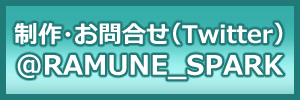
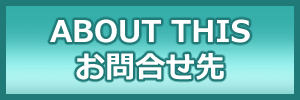
update

diff --git a/pcInformation/index.html b/pcInformation/index.html
@@ -2,7 +2,7 @@
 <html>
   <head>
       <meta charset = "UTF-8" name="viewport" content="user-scalable=no, width=device-width"/>
-        <link rel="shortcut icon" type = "image/vnd.microsoft.icon" href="../info/favicon.ico" />
+        <link rel="shortcut icon" type = "image/vnd.microsoft.icon" href="../information/favicon.ico" />
         <title>ブーメランサバイバー モバイル ご案内</title>
 
            
@@ -20,10 +20,10 @@
 
         <div id = "info">
 
-        <img src = "image/info.jpg">
+        <img src = "image/information.jpg">
         
           <div id = "button" onclick= "window.location.href = 'https://ramune-spark.booth.pm/'"><img></div>
-          <div id = "buttonContact" onclick= "window.location.href = 'https://x.com/RAMUNE_SPARK'"><img></div>
+          <div id = "buttonContact" onclick= "window.location.href = 'https://github.com/RamuneSpark/boomerangSurvivor_mobile/blob/main/README.md'"><img></div>
         
         </div>
         

diff --git a/index.html b/index.html
@@ -1,9 +1,9 @@
 <!DOCTYPE html>
 <html>
   <head>
-    <meta property="og:image" content="https://ramunespark.github.io/boomerangSurvivor_mobile/info/information.png">
+    <meta property="og:image" content="https://ramunespark.github.io/boomerangSurvivor_mobile/information/info.png">
       <meta charset = "UTF-8" name="viewport" content="user-scalable=no, width=device-width"/>
-        <link rel="shortcut icon" type = "image/vnd.microsoft.icon" href="info/favicon.ico" />
+        <link rel="shortcut icon" type = "image/vnd.microsoft.icon" href="information/favicon.ico" />
         <title>ブーメランサバイバー モバイル</title>
 
         <meta name="keywords" content="ブーメランサバイバー, ブーメランサバイバー モバイル, ブーサバモバイル , Boomerang Survivor, Boomerang Survivor Mobile, ブラウザゲーム">
